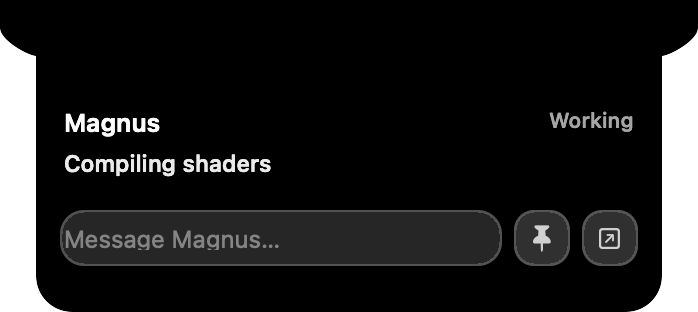
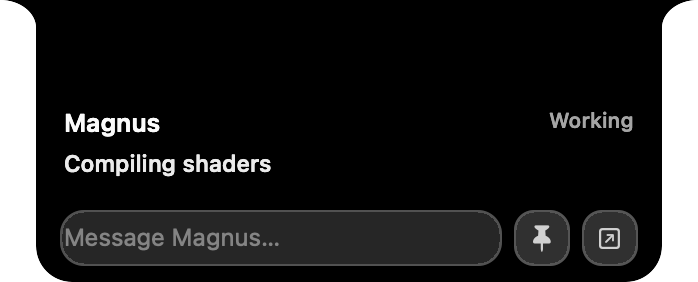
fix(prebase): enforce fail-closed agents window dormancy and overhaul native notch silhouette

diff --git a/src/vs/workbench/contrib/chat/electron-browser/agentSessions/agentSessionsActions.ts b/src/vs/workbench/contrib/chat/electron-browser/agentSessions/agentSessionsActions.ts
@@ -67,9 +67,6 @@ export class OpenWorkspaceInAgentsWindowAction extends Action2 {
 	}
 
 	async run(accessor: ServicesAccessor) {
-		if (product.prebaseAgentsWindowEnabled === false && !process.env['PREBASE_ENABLE_AGENTS_WINDOW']) {
-			return;
-		}
 		if (!isAgentsWindowEnabled(product)) {
 			return;
 		}
@@ -115,9 +112,6 @@ export class OpenAgentsWindowAction extends Action2 {
 	}
 
 	async run(accessor: ServicesAccessor, args?: { folderUri?: UriComponents; sessionResource?: UriComponents }) {
-		if (product.prebaseAgentsWindowEnabled === false && !process.env['PREBASE_ENABLE_AGENTS_WINDOW']) {
-			return;
-		}
 		if (!isAgentsWindowEnabled(product)) {
 			return;
 		}
@@ -158,9 +152,6 @@ export class OpenChatSessionInAgentsWindowAction extends Action2 {
 	}
 
 	async run(accessor: ServicesAccessor, ...rest: unknown[]): Promise<void> {
-		if (product.prebaseAgentsWindowEnabled === false && !process.env['PREBASE_ENABLE_AGENTS_WINDOW']) {
-			return;
-		}
 		if (!isAgentsWindowEnabled(product)) {
 			return;
 		}
@@ -240,7 +231,7 @@ export class OpenWorkspaceInAgentsContribution extends Disposable implements IWo
 		@IProductService productService: IProductService,
 	) {
 		super();
-		const enabled = isAgentsWindowEnabled(productService) && ((productService.prebaseAgentsWindowEnabled ?? false) || Boolean(process.env['PREBASE_ENABLE_AGENTS_WINDOW']));
+		const enabled = isAgentsWindowEnabled(productService);
 		CONTEXT_AGENTS_WINDOW_ENABLED.bindTo(contextKeyService).set(enabled);
 		if (!enabled) {
 			return;
@@ -394,7 +385,7 @@ export class AgentsHandoffInputTipContribution extends Disposable implements IWo
 
 	private _update(): void {
 		// Fail-closed dormancy: when Agents Window is not enabled, immediately tear down any notification and return.
-		if (!isAgentsWindowEnabled(product) || (product.prebaseAgentsWindowEnabled === false && !process.env['PREBASE_ENABLE_AGENTS_WINDOW'])) {
+		if (!isAgentsWindowEnabled(product)) {
 			if (this._lastPostedFor) {
 				this._notificationService.deleteNotification(AgentsHandoffInputTipContribution.NOTIFICATION_ID);
 				this._lastPostedFor = undefined;

diff --git a/src/vs/workbench/contrib/chat/browser/actions/chatAccessibilityHelp.ts b/src/vs/workbench/contrib/chat/browser/actions/chatAccessibilityHelp.ts
@@ -18,6 +18,7 @@ import { TerminalContribCommandId } from '../../../terminal/terminalContribExpor
 import { ChatContextKeyExprs, ChatContextKeys } from '../../common/actions/chatContextKeys.js';
 import { ChatAgentLocation, ChatConfiguration, ChatModeKind } from '../../common/constants.js';
 import { FocusAgentSessionsAction } from '../agentSessions/agentSessionsActions.js';
+import { isAgentsWindowEnabled } from '../../common/agentsWindowCapability.js';
 import { IChatWidgetService } from '../chat.js';
 import { ChatEditingShowChangesAction, ViewPreviousEditsAction } from '../chatEditing/chatEditingActions.js';
 
@@ -164,8 +165,8 @@ export function getChatAccessibilityHelpProvider(accessor: ServicesAccessor, edi
 	const cachedPosition = inputEditor.getPosition();
 	inputEditor.getSupportedActions();
 	const productService = accessor.get(IProductService);
-	const isAgentsWindowEnabled = Boolean(productService.prebaseAgentsWindowEnabled) || Boolean(process.env['PREBASE_ENABLE_AGENTS_WINDOW']);
-	const helpText = getAccessibilityHelpText(type, keybindingService, isAgentsWindowEnabled);
+	const agentsWindowEnabled = isAgentsWindowEnabled(productService);
+	const helpText = getAccessibilityHelpText(type, keybindingService, agentsWindowEnabled);
 	return new AccessibleContentProvider(
 		type === 'panelChat' ? AccessibleViewProviderId.PanelChat : type === 'inlineChat' ? AccessibleViewProviderId.InlineChat : type === 'agentView' ? AccessibleViewProviderId.AgentChat : AccessibleViewProviderId.QuickChat,
 		{ type: AccessibleViewType.Help },

diff --git a/src/vs/base/common/agentsWindow.ts b/src/vs/base/common/agentsWindow.ts
@@ -1,0 +1,24 @@
+/*---------------------------------------------------------------------------------------------
+ *  Copyright (c) PreBase. All rights reserved.
+ *  Licensed under the MIT License. See License.txt in the project root for license information.
+ *--------------------------------------------------------------------------------------------*/
+
+/**
+ * Evaluates whether the standalone Agents Window feature is enabled.
+ *
+ * Fail-closed policy:
+ * - Returns `true` ONLY IF `env['PREBASE_ENABLE_AGENTS_WINDOW']` is truthy (and not '0' or 'false')
+ *   OR `productConfig?.prebaseAgentsWindowEnabled === true`.
+ * - Defaults to `false` when configuration is undefined, missing, false, or disabled.
+ */
+export function isAgentsWindowEnabled(
+	productConfig?: { prebaseAgentsWindowEnabled?: boolean },
+	env?: Record<string, string | undefined>,
+): boolean {
+	const activeEnv = env ?? (typeof process !== 'undefined' ? process.env : undefined);
+	const envOverride = activeEnv?.['PREBASE_ENABLE_AGENTS_WINDOW'];
+	if (envOverride && envOverride !== '0' && envOverride !== 'false') {
+		return true;
+	}
+	return productConfig?.prebaseAgentsWindowEnabled === true;
+}

diff --git a/src/vs/platform/windows/electron-main/windowsMainService.ts b/src/vs/platform/windows/electron-main/windowsMainService.ts
@@ -33,7 +33,7 @@ import { FileType, IFileService } from '../../files/common/files.js';
 import { IInstantiationService } from '../../instantiation/common/instantiation.js';
 import { ILifecycleMainService } from '../../lifecycle/electron-main/lifecycleMainService.js';
 import { ILogService } from '../../log/common/log.js';
-import product from '../../product/common/product.js';
+import product, { isAgentsWindowEnabled } from '../../product/common/product.js';
 import { IProtocolMainService } from '../../protocol/electron-main/protocol.js';
 import { getRemoteAuthority } from '../../remote/common/remoteHosts.js';
 import { IStateService } from '../../state/node/state.js';
@@ -293,7 +293,7 @@ export class WindowsMainService extends Disposable implements IWindowsMainServic
 	}
 
 	async openAgentsWindow(openConfig: IOpenConfiguration, folderUri?: URI, sessionResource?: URI): Promise<ICodeWindow[]> {
-		if (product.prebaseAgentsWindowEnabled === false && !process.env['PREBASE_ENABLE_AGENTS_WINDOW']) {
+		if (!isAgentsWindowEnabled(product)) {
 			this.logService.info('windowsManager#openAgentsWindow suppressed: Agents window is dormant');
 			return [];
 		}

diff --git a/src/vs/platform/native/electron-main/nativeHostMainService.ts b/src/vs/platform/native/electron-main/nativeHostMainService.ts
@@ -14,6 +14,7 @@ import { Disposable, DisposableMap, DisposableStore, toDisposable } from '../../
 import { matchesSomeScheme, Schemas } from '../../../base/common/network.js';
 import { dirname, join, posix, resolve, win32 } from '../../../base/common/path.js';
 import { isLinux, isMacintosh, isWindows } from '../../../base/common/platform.js';
+import { isAgentsWindowEnabled } from '../../../base/common/product.js';
 import { AddFirstParameterToFunctions } from '../../../base/common/types.js';
 import { URI, UriComponents } from '../../../base/common/uri.js';
 import { virtualMachineHint } from '../../../base/node/id.js';
@@ -316,7 +317,7 @@ export class NativeHostMainService extends Disposable implements INativeHostMain
 	}
 
 	async openAgentsWindow(windowId: number | undefined, options?: { folderUri?: UriComponents; sessionResource?: UriComponents }): Promise<void> {
-		if (this.productService.prebaseAgentsWindowEnabled === false && !process.env['PREBASE_ENABLE_AGENTS_WINDOW']) {
+		if (!isAgentsWindowEnabled(this.productService)) {
 			this.logService.info('nativeHost#openAgentsWindow suppressed: Agents window is dormant');
 			return;
 		}

diff --git a/src/vs/workbench/contrib/prebase/browser/magnusLiveActivityContribution.ts b/src/vs/workbench/contrib/prebase/browser/magnusLiveActivityContribution.ts
@@ -529,7 +529,7 @@ export class MagnusLiveActivityContribution extends Disposable implements IWorkb
 		if (Date.now() < this._visualFixtureHoldUntil) {
 			return;
 		}
-		const allModels = this.chatService.chatModels.get();
+		const allModels = Array.from(this.chatService.chatModels.get());
 		let model: IChatModel | undefined;
 		if (this._selectedSessionId) {
 			model = allModels.find(m => m.sessionId === this._selectedSessionId);
@@ -707,7 +707,7 @@ export class MagnusLiveActivityContribution extends Disposable implements IWorkb
 		if (command.kind === 'selectSession') {
 			const targetSessionId = command.targetSessionId || command.sessionId;
 			const targetResourceStr = command.targetSessionResource || command.sessionResource;
-			const allModels = this.chatService.chatModels.get();
+			const allModels = Array.from(this.chatService.chatModels.get());
 			let targetModel: IChatModel | undefined;
 			if (targetSessionId) {
 				targetModel = allModels.find(m => m.sessionId === targetSessionId && (isMagnusModel(m) || m.sessionId === this._selectedSessionId));

diff --git a/src/vs/code/electron-main/app.ts b/src/vs/code/electron-main/app.ts
@@ -17,6 +17,7 @@ import { Disposable, DisposableStore, MutableDisposable, toDisposable } from '..
 import { Schemas, VSCODE_AUTHORITY } from '../../base/common/network.js';
 import { join, posix } from '../../base/common/path.js';
 import { IProcessEnvironment, isLinux, isLinuxSnap, isMacintosh, isWindows, OS } from '../../base/common/platform.js';
+import { isAgentsWindowEnabled } from '../../base/common/product.js';
 import { assertType } from '../../base/common/types.js';
 import { URI } from '../../base/common/uri.js';
 import { generateUuid } from '../../base/common/uuid.js';
@@ -1442,7 +1443,7 @@ export class CodeApplication extends Disposable {
 		const args = this.environmentMainService.args;
 
 		// Handle agents window first based on context
-		if (args['agents'] && (this.productService.prebaseAgentsWindowEnabled !== false || process.env['PREBASE_ENABLE_AGENTS_WINDOW'])) {
+		if (args['agents'] && isAgentsWindowEnabled(this.productService)) {
 			return windowsMainService.openAgentsWindow({
 				context,
 				cli: args,

diff --git a/src/vs/platform/launch/electron-main/launchMainService.ts b/src/vs/platform/launch/electron-main/launchMainService.ts
@@ -18,6 +18,7 @@ import { ICodeWindow } from '../../window/electron-main/window.js';
 import { IWindowSettings } from '../../window/common/window.js';
 import { IOpenConfiguration, IWindowsMainService, OpenContext } from '../../windows/electron-main/windows.js';
 import { IProtocolUrl } from '../../url/electron-main/url.js';
+import product, { isAgentsWindowEnabled } from '../../product/common/product.js';
 
 export const ID = 'launchMainService';
 export const ILaunchMainService = createDecorator<ILaunchMainService>(ID);
@@ -145,7 +146,11 @@ export class LaunchMainService implements ILaunchMainService {
 
 		// Agents window
 		else if (args['agents']) {
-			usedWindows = await this.windowsMainService.openAgentsWindow(baseConfig);
+			if (!isAgentsWindowEnabled(product)) {
+				this.logService.info('launchMainService#start suppressed: Agents window is dormant');
+			} else {
+				usedWindows = await this.windowsMainService.openAgentsWindow(baseConfig);
+			}
 		}
 
 		// Start without file/folder arguments

diff --git a/src/vs/workbench/contrib/chat/common/agentsWindowCapability.ts b/src/vs/workbench/contrib/chat/common/agentsWindowCapability.ts
@@ -3,14 +3,4 @@
  *  Licensed under the MIT License. See License.txt in the project root for license information.
  *--------------------------------------------------------------------------------------------*/
 
-export function isAgentsWindowEnabled(
-	productConfig?: { prebaseAgentsWindowEnabled?: boolean },
-	env?: Record<string, string | undefined>,
-): boolean {
-	const activeEnv = env ?? (typeof process !== 'undefined' ? process.env : undefined);
-	const envOverride = activeEnv?.['PREBASE_ENABLE_AGENTS_WINDOW'];
-	if (envOverride && envOverride !== '0' && envOverride !== 'false') {
-		return true;
-	}
-	return productConfig?.prebaseAgentsWindowEnabled === true;
-}
+export { isAgentsWindowEnabled } from '../../../../base/common/agentsWindow.js';

diff --git a/src/vs/workbench/contrib/chat/browser/agentSessions/agentSessionsBanner.ts b/src/vs/workbench/contrib/chat/browser/agentSessions/agentSessionsBanner.ts
@@ -39,9 +39,6 @@ export interface IAgentsBannerResult {
  * It is also hidden when AI features are disabled.
  */
 export function canShowAgentsBanner(chatEntitlementService: IChatEntitlementService): boolean {
-	if (product.prebaseAgentsWindowEnabled === false) {
-		return false;
-	}
 	if (!isAgentsWindowEnabled(product)) {
 		return false;
 	}

diff --git a/src/vs/base/common/product.ts b/src/vs/base/common/product.ts
@@ -447,3 +447,6 @@ export interface IDefaultChatAgent {
 	readonly completionsEnablementSetting: string;
 	readonly nextEditSuggestionsSetting: string;
 }
+
+export { isAgentsWindowEnabled } from './agentsWindow.js';
+

diff --git a/src/vs/platform/product/common/product.ts b/src/vs/platform/product/common/product.ts
@@ -100,4 +100,5 @@ else {
 	}
 }
 
+export { isAgentsWindowEnabled } from '../../../base/common/product.js';
 export default product;
